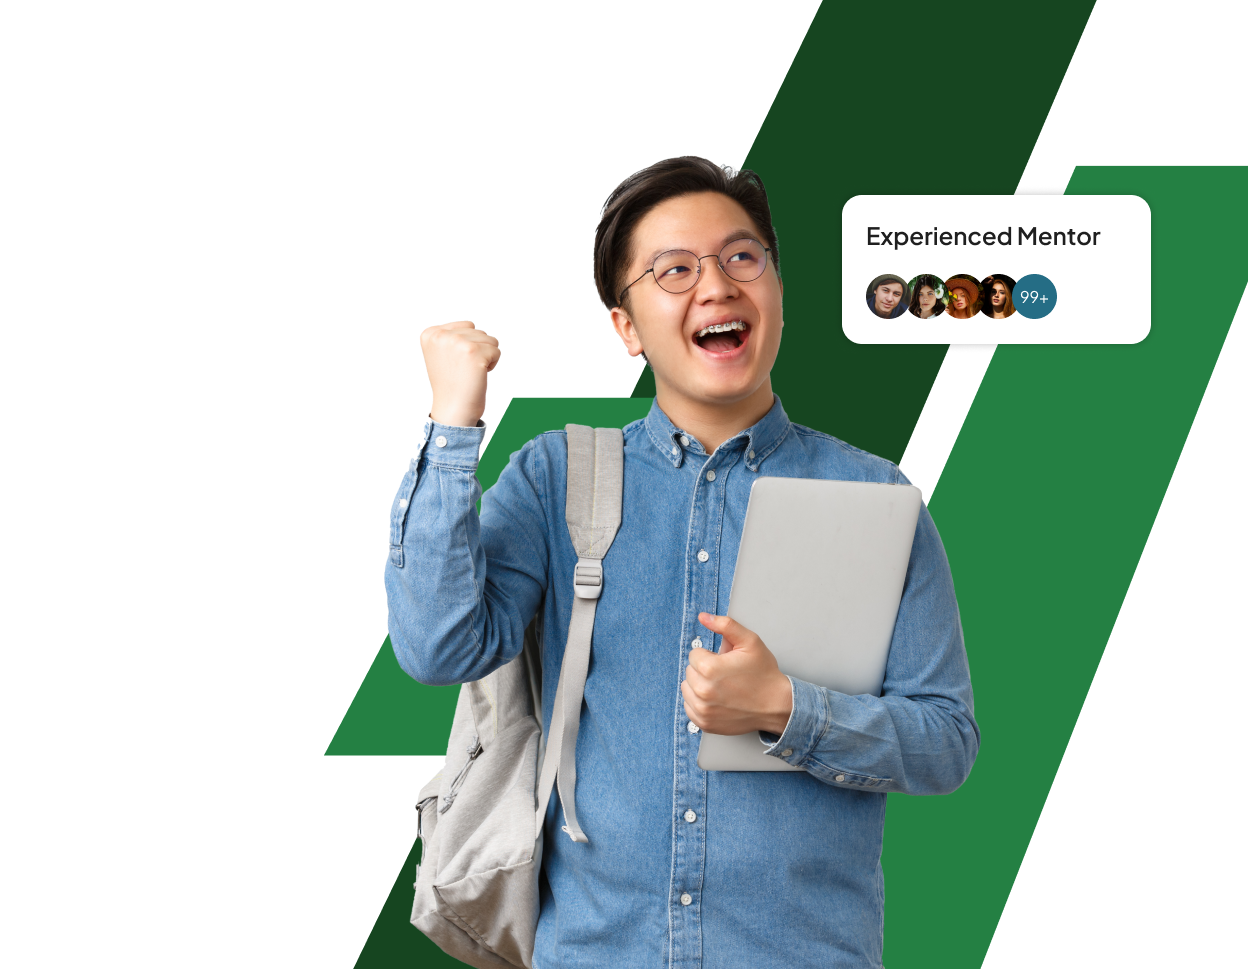
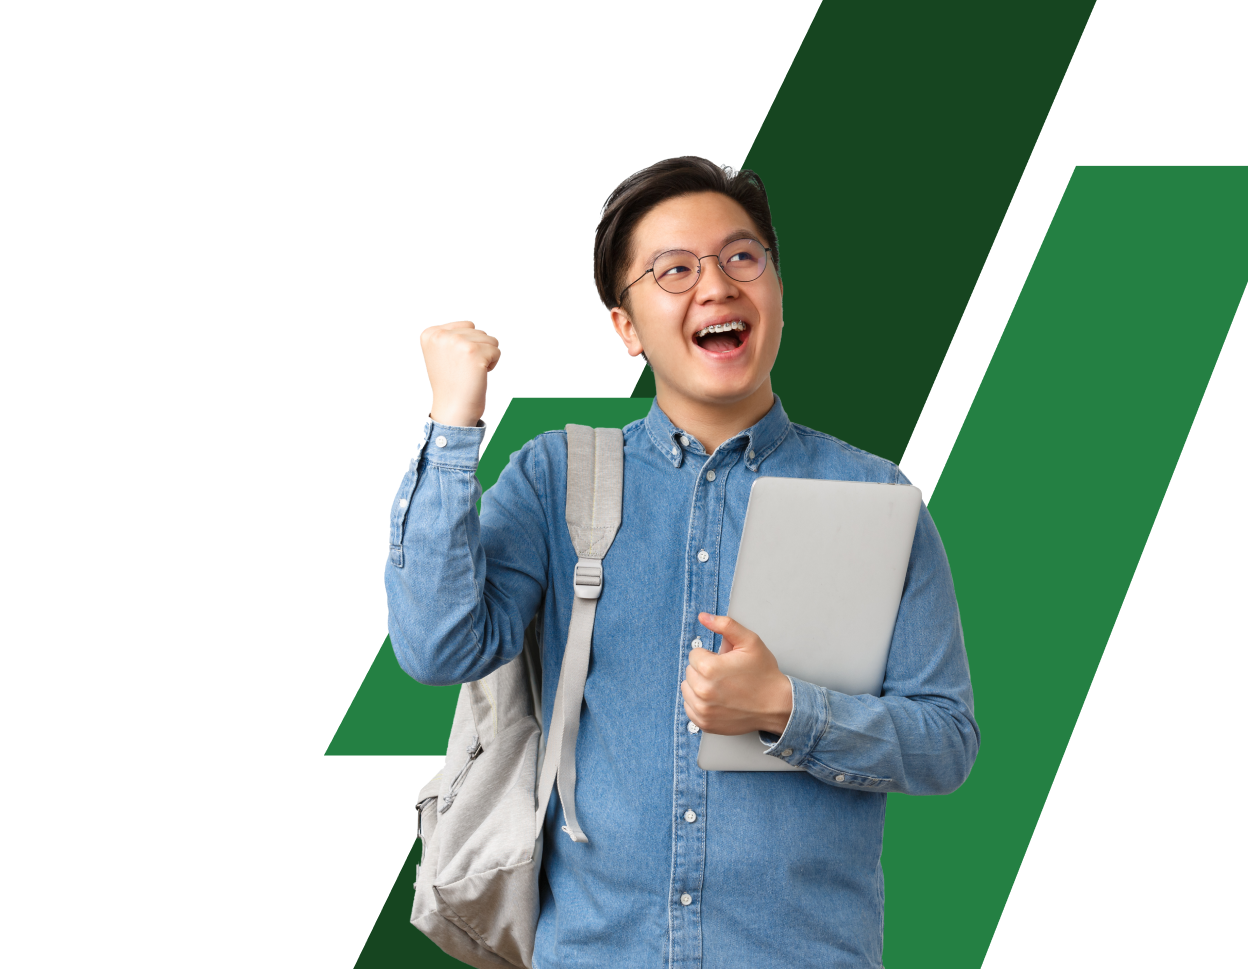
change container and update hero

Changed region(s): [[0.6562, 0.1858, 0.9375, 0.3715]]

diff --git a/public/style/home.css b/public/style/home.css
@@ -10,6 +10,7 @@ body {
 
 button {
   border: none;
+  font-family: "Plus Jakarta Sans", "sans-serif";
 }
 
 .main-container {
@@ -17,19 +18,36 @@ button {
   padding-right: 3.5rem;
 }
 
+.app-btn {
+  background-color: #164520;
+  color: #ffffff;
+  padding: 0.5rem 1rem;
+  min-width: 110px;
+  border-radius: 8px;
+  border: none;
+  cursor: pointer;
+  font-weight: 500;
+  font-size: 1rem;
+}
+
+.app-btn:hover {
+  opacity: 0.8;
+}
+
+.btn-full {
+  width: 100%;
+}
+
 #hero {
-  min-height: 90vh;
-  height: 100vh;
+  height: 87vh;
   text-align: right;
 }
 #hero .content-container {
   position: absolute;
   width: 100%;
-  height: 100%;
   display: flex;
   align-items: center;
-  padding-left: 3.5rem;
-  padding-right: 3.5rem;
+  margin-top: 22vh;
 }
 #hero .content {
   text-align: left;
@@ -44,8 +62,9 @@ button {
   line-height: 1.8rem;
   margin-bottom: 2.5rem;
 }
-#hero .content .my-btn {
+#hero .content .app-btn {
   background-color: #248043;
+  padding: 0.7rem 2rem;
 }
 #hero .image {
   height: 100%;

diff --git a/public/style/home.scss b/public/style/home.scss
@@ -2,18 +2,15 @@
 
 // hero
 #hero {
-    min-height: 90vh;
-    height: 100vh;
+    height: 87vh;
     text-align: right;
 
     .content-container {
         position: absolute;
         width: 100%;
-        height: 100%;
         display: flex;
         align-items: center;
-        padding-left: $padding-container;
-        padding-right: $padding-container;
+        margin-top: 22vh;
     }
 
     .content {
@@ -31,8 +28,9 @@
             margin-bottom: 2.5rem;
         }
 
-        .my-btn{
+        .app-btn{
             background-color: $color-secondary;
+            padding: .7rem 2rem;
         }
     }
 

diff --git a/public/style/app_layout.scss b/public/style/app_layout.scss
@@ -299,14 +299,11 @@ main {
 
 // navbar
 .navbar {
-    padding-left: $padding-container;
-    padding-right: $padding-container;
+    position: sticky;
+    top: 0;
+    z-index: 100;
+    background-color: $color-white;
     font-size: 1rem;
-
-    .container-fluid {
-        padding-left: 0;
-        padding-right: 0;
-    }
 
     .navbar-brand {
         margin-right: 2rem;

diff --git a/public/style/app_layout.css b/public/style/app_layout.css
@@ -299,13 +299,11 @@ main .navigation p .sub-nav {
 }
 
 .navbar {
-  padding-left: 3.5rem;
-  padding-right: 3.5rem;
+  position: sticky;
+  top: 0;
+  z-index: 100;
+  background-color: #ffffff;
   font-size: 1rem;
-}
-.navbar .container-fluid {
-  padding-left: 0;
-  padding-right: 0;
 }
 .navbar .navbar-brand {
   margin-right: 2rem;

diff --git a/public/style/_base.scss b/public/style/_base.scss
@@ -33,6 +33,7 @@ body {
 
 button {
     border: none;
+    font-family: 'Plus Jakarta Sans', 'sans-serif';
 }
 
 .main-container{

diff --git a/app/Views/components/home/hero.php b/app/Views/components/home/hero.php
@@ -1,18 +1,20 @@
 <!-- hero -->
 <div id="hero">
     <div class="content-container">
-        <div class="content col-md-6">
-            <h1>
-                The First Group - Mentoring Focused Course in Indonesia.
-            </h1>
-            <p>
-                The learning program in the tender is carried out collaboratively and with the guidance of experienced mentors who make the online learning experience fun and focused.
-            </p>
-            <a href="/about-us">
-                <button class="my-btn">
-                    Pelajari Lebih Lanjut
-                </button>
-            </a>
+        <div class="container">
+            <div class="content col-md-6">
+                <h1>
+                    The First Group - Mentoring Focused Course in Indonesia.
+                </h1>
+                <p>
+                    Tender merupakan tempat dimana kamu dapat mempelajari suatu bidang baru yang akan langsung dibimbing oleh para mentor ahli di bidangnya.
+                </p>
+                <a href="/about-us">
+                    <button class="app-btn">
+                        Pelajari Lebih Lanjut
+                    </button>
+                </a>
+            </div>
         </div>
     </div>
     <div class="image d-none d-md-block">

diff --git a/app/Views/components/home/navbar.php b/app/Views/components/home/navbar.php
@@ -1,5 +1,5 @@
 <nav class="navbar navbar-expand-lg navbar-light shadow-sm">
-    <div class="container-fluid">
+    <div class="container container-fluid">
         <a class="navbar-brand" href="/">
             <img src="../../../image/logo.svg" alt="logo" height="60px" width="60px">
         </a>
